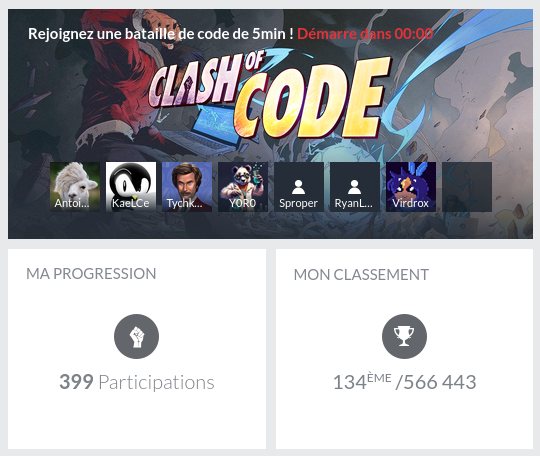
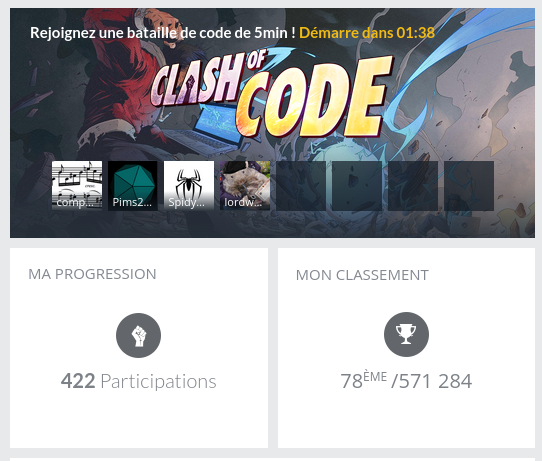
update clash of code ranking

diff --git a/src/posts/2021/05/javascript_golf_tips/index.md b/src/posts/2021/05/javascript_golf_tips/index.md
@@ -15,9 +15,9 @@ I love to play on [codingame](https://www.codingame.com) it's a great way to kee
 
 There are several types of clashes (fastest to get the right solution, reverse engineering and shortest code) and recently the shortest code became one of my favorite. Since I start to have a decent ranking I compiled some tricks I use in javascript to shorten my code. Some save several bytes and other only save a few but learning how to combine them and when to use them can lead a long way.
 
-![My ranking on May 31th 2021](./clash_of_code_rank.png)
+![My ranking on June 16th 2023](./clash_of_code_rank.png)
 <center>
-<i>My ranking on 31/05/23: 134/566.443 Top 0.02%😎</i>
+<i>My ranking on 13/06/23: 78/571.284 Top 0.01%😎</i>
 </center>
 
 
